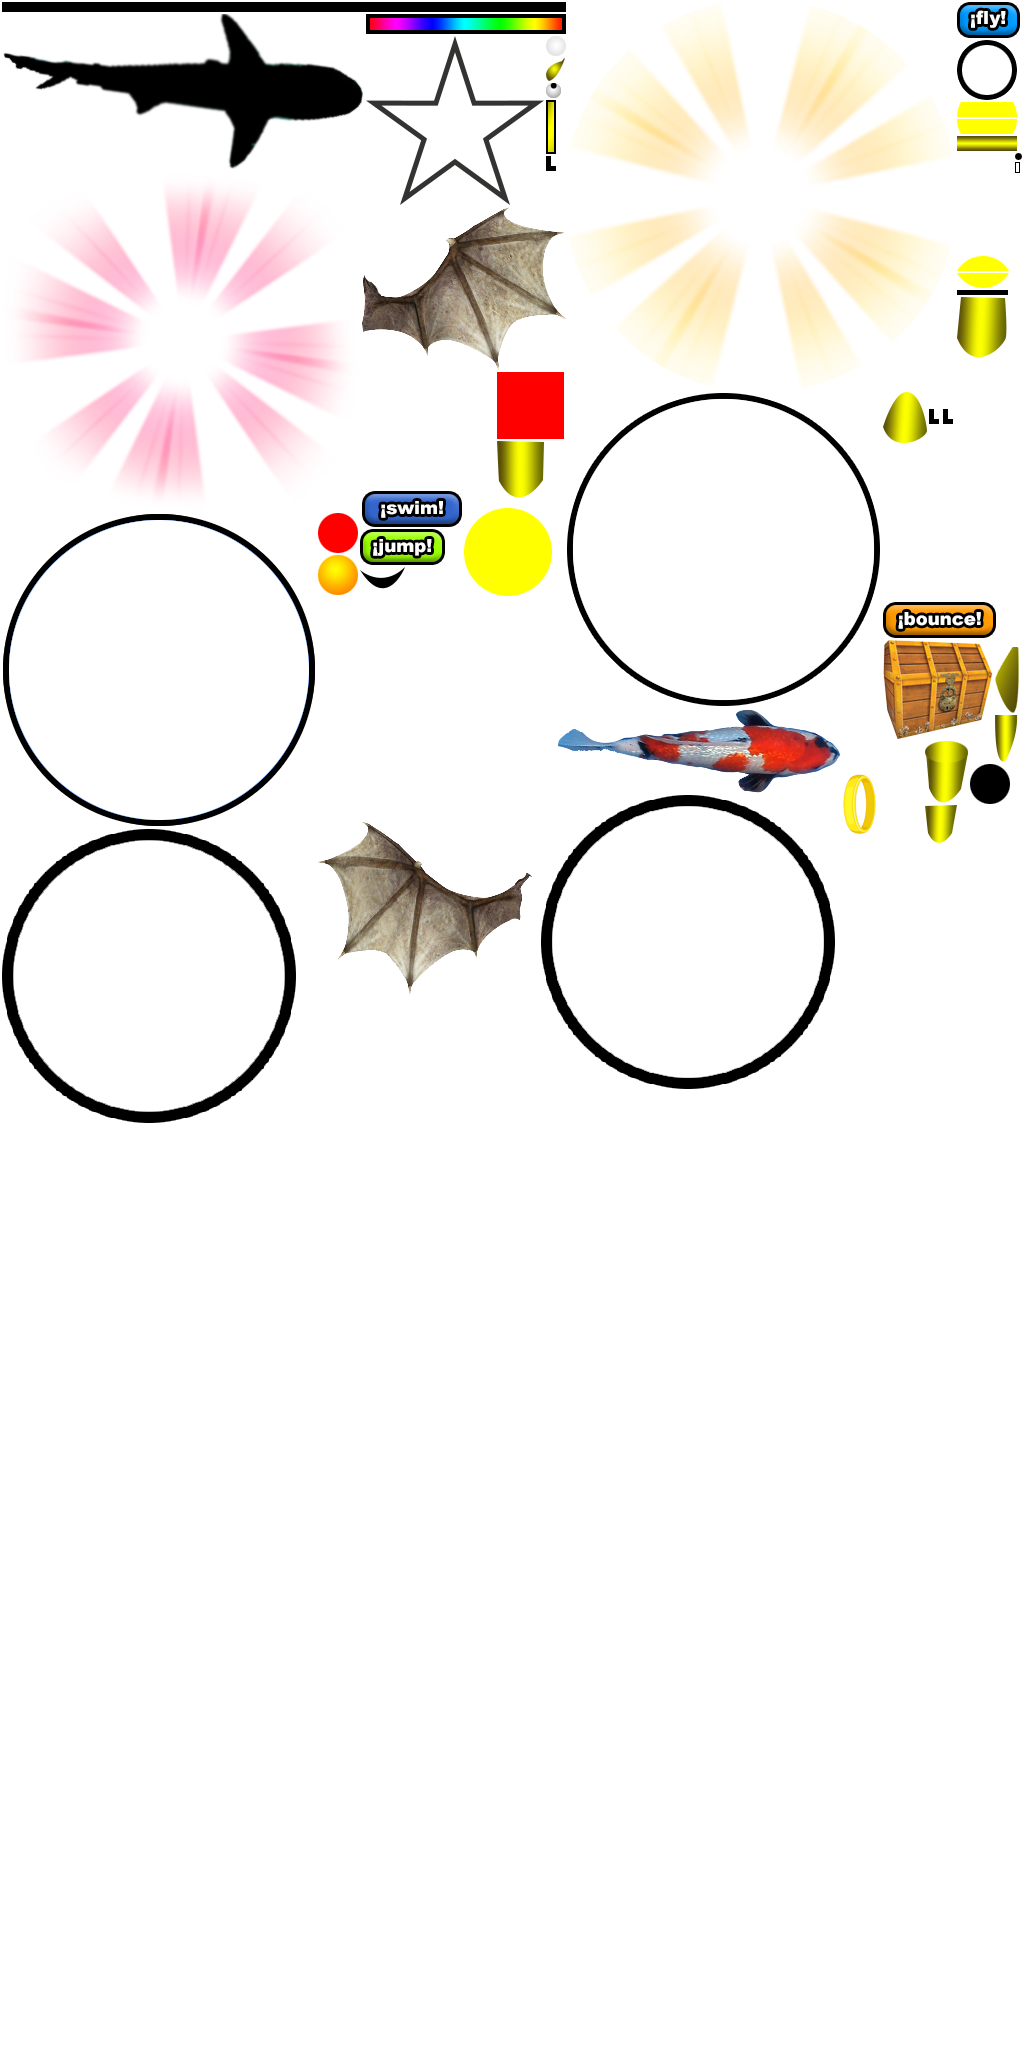
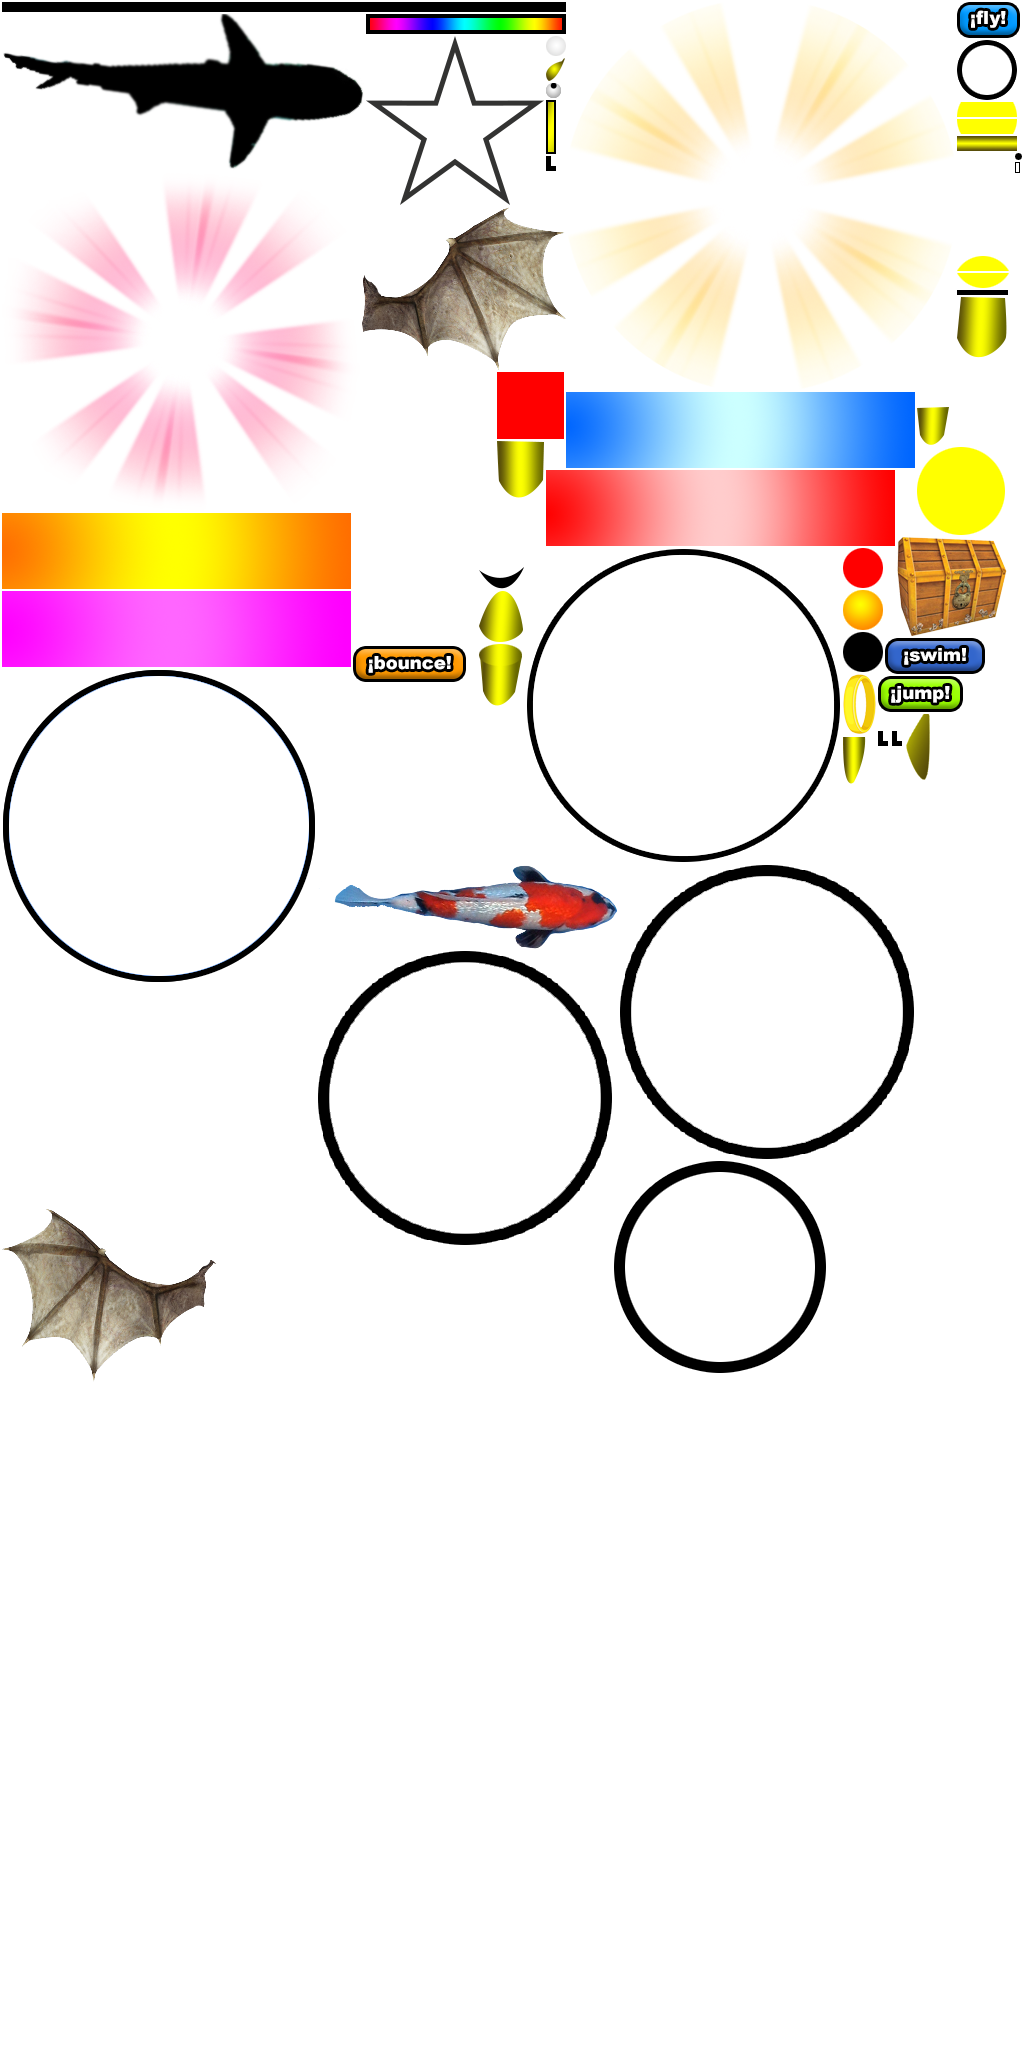
gradient lines

diff --git a/src/animations/supportingClasses/bounce/bounceBackground.js b/src/animations/supportingClasses/bounce/bounceBackground.js
@@ -30,7 +30,7 @@ export default function () {
 			this.spritesheet = this.utils.spritesheet;
 			this.action = action;
 
-			this.background.beginFill(0x9900FF).drawRect(0,0,this.wh.canvasWidth, this.wh.canvasHeight).endFill();
+			this.background.beginFill(0xFFFFFF).drawRect(0,0,this.wh.canvasWidth, this.wh.canvasHeight).endFill();
 
 			this.cont.addChild(this.background);
 
@@ -58,15 +58,15 @@ export default function () {
 			this.array4 = [];
 
 			this.level1Object = {
-				w: 3,
-				q: 10,
+				w: 100,
+				q: 3,
 				speedAdjust: 0.15,
 				color: 0xFF0000,
 				cont: this.level1, 
 				array: this.array1
 			}
 			this.level2Object = {
-				w: 8,
+				w: 50,
 				q: 5,
 				speedAdjust: 0.35,
 				color: 0x33FF00,
@@ -75,15 +75,15 @@ export default function () {
 			}
 			this.level3Object = {
 				w: 20,
-				q: 2,
+				q: 10,
 				speedAdjust: 0.65,
 				color: 0xFFFF00,
 				cont: this.level3, 
 				array: this.array3
 			}
 			this.level4Object = {
-				w: 30,
-				q: 1,
+				w: 10,
+				q: 20,
 				speedAdjust: 0.15,
 				color: 0xFF00FF,
 				cont: this.level4, 
@@ -92,9 +92,17 @@ export default function () {
 
 
 			let opQ = this.level1Object.q + this.level2Object.q + this.level3Object.q + this.level4Object.q;
-
+			let arr = [
+				'pinkGradient.png',
+				'orangeGradient.png',
+				'blueGradient.png',
+				'redGradient.png'
+			],
+			arrCounter = 0;
 			for (let i = 0; i < opQ; i ++) {
-				this.barsOP.push(Assets.Sprite('line.png'));
+				this.barsOP.push(Assets.Sprite(arr[arrCounter]));
+				arrCounter ++;
+				if(arrCounter >= arr.length)arrCounter = 0;
 				this.dotsOP.push(Assets.Sprite('pellet.png'));
 			}
 		},
@@ -116,7 +124,7 @@ export default function () {
 				bar.width = obj.w;
 				bar.height = this.utils.canvasHeight;
 				bar.spacing = spacing;
-				bar.tint = obj.color;
+				//bar.tint = obj.color;
 				bar.x = i * spacing;
 				//console.log(i, spacing)
 				bar.array = obj.array;
@@ -165,16 +173,20 @@ export default function () {
 		addToStage: function () {
 			this.cont.addChild(this.level1);
 			this.cont.addChild(this.level2);
-			this.parentCont.addChildAt(this.level3, this.parentCont.children.length - 3);
-			this.parentCont.addChildAt(this.level4, this.parentCont.children.length - 3);
+			this.cont.addChild(this.level3);
+			this.cont.addChild(this.level4)
+			// this.parentCont.addChildAt(this.level3, this.parentCont.children.length - 3);
+			// this.parentCont.addChildAt(this.level4, this.parentCont.children.length - 3);
 			this.parentCont.addChildAt(this.cont, 0);
 		},
 		removeFromStage: function () {
 			TweenMax.killAll();
 			this.cont.removeChild(this.level1);
 			this.cont.removeChild(this.level2);
-			this.parentCont.removeChild(this.level3);
-			this.parentCont.removeChild(this.level4);
+			this.cont.removeChild(this.level3);
+			this.cont.removeChild(this.level4);
+			// this.parentCont.removeChild(this.level3);
+			// this.parentCont.removeChild(this.level4);
 			this.parentCont.removeChild(this.cont);
 		},
 		resize: function () {

diff --git a/src/animations/intro_animation.js b/src/animations/intro_animation.js
@@ -27,7 +27,7 @@ export default function(obj) {
         rotateRightBoolean: false,
         renderTextureTestBoolean: false,
         inc: 90,
-        mode: ['jump','bounce','fly','swim'],
+        mode: ['bounce'],//['jump','bounce','fly','swim'],
         activeModeIndex: 0,
         activeMode: undefined,
         backgroundCont: Assets.Container(),
@@ -302,7 +302,13 @@ export default function(obj) {
             if(this.isMobile){
                 this.controlPanel.resize();
             }
-            
+            // this.magicPills.resize(wh);
+            // this.treasure.resize(wh);
+            // this.transitionItems.resize(wh);
+            // this.filterAnimation.resize(wh);
+            // this.pellets.resize(wh);
+            // this.hero.resize(wh);
+            // if(this.bouncePlatform)this.bouncePlatform.resize(wh);            
         },
         resizeHandler: function () {
             this.canvasWidth =  this.utils.returnCanvasWidth(this.isMobileOnly);
@@ -312,17 +318,7 @@ export default function(obj) {
 
             this.resizeBundle();
            
-            // if(this.platforms)this.platforms.resize(wh);
-            // this.magicPills.resize(wh);
-            // this.treasure.resize(wh);
-            // this.transitionItems.resize(wh);
-            // this.filterAnimation.resize(wh);
-            // this.pellets.resize(wh);
-            // this.hero.resize(wh);
-            // if(this.jumpAction)this.jumpAction.resize(wh);
-            // if(this.bouncePlatform)this.bouncePlatform.resize(wh);
-            // if(this.bounceAction)this.bounceAction.resize(wh);
-
+         
             this.app.renderer.resize(this.canvasWidth, this.canvasHeight);
         },
         nightMode: function () {
@@ -334,7 +330,7 @@ export default function(obj) {
             this.filterAnimation.filterToggle();
         },
         rotate: function (str) {
-
+            // leaving this here for now because this really relates to the background current
             if (this.activeMode === 'jump') {
                 this.activeAction.move(str);
                 return;
@@ -381,12 +377,10 @@ export default function(obj) {
             this.vy = 0;
         },
         leftHit: function () {
-            //if(this.activeMode === 'bounce')break;
             if(this.swimAction)this.swimAction.spinning = true;
             this.rotateLeftBoolean = true;
         },
         rightHit: function (){
-            //if(this.activeMode === 'bounce')break;
             if(this.swimAction)this.swimAction.spinning = true;
             this.rotateRightBoolean = true;
         },

diff --git a/src/animations/supportingClasses/bounce/bounceAction.js b/src/animations/supportingClasses/bounce/bounceAction.js
@@ -19,6 +19,9 @@ export default function () {
 			this.canvasWidth = wh.canvasWidth;
 			this.canvasHeight = wh.canvasHeight;
 		},
+		rotate: function () {
+
+		},
 		animate: function () {
 			//this.hero.vy += 0.25;
 				this.hero.activeHero.animate();

diff --git a/src/components/HomeCanvas.js b/src/components/HomeCanvas.js
@@ -16,7 +16,7 @@ export default class HomeCanvas extends React.Component {
 		this.state = {
 			filterTest: "off",
 			nightMode: "off",
-			loggedIn: false,
+			loggedIn: true,
 			showStartScreen: true
 		}
 	}

diff --git a/src/animations/supportingClasses/jump/jumpAction.js b/src/animations/supportingClasses/jump/jumpAction.js
@@ -16,6 +16,9 @@ export default function () {
 			this.stage = stage;
 			this.vx = this.speed;
 		},
+		rotate: function () {
+
+		},
 		jump: function () {
 			console.log('jump')
 			this.vy = -6;
